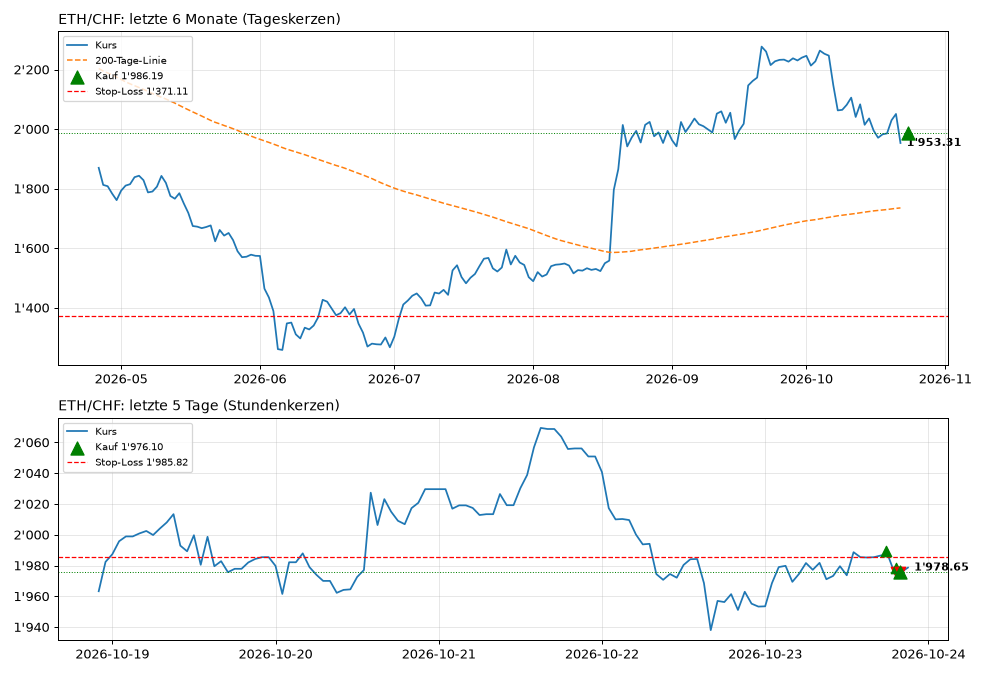
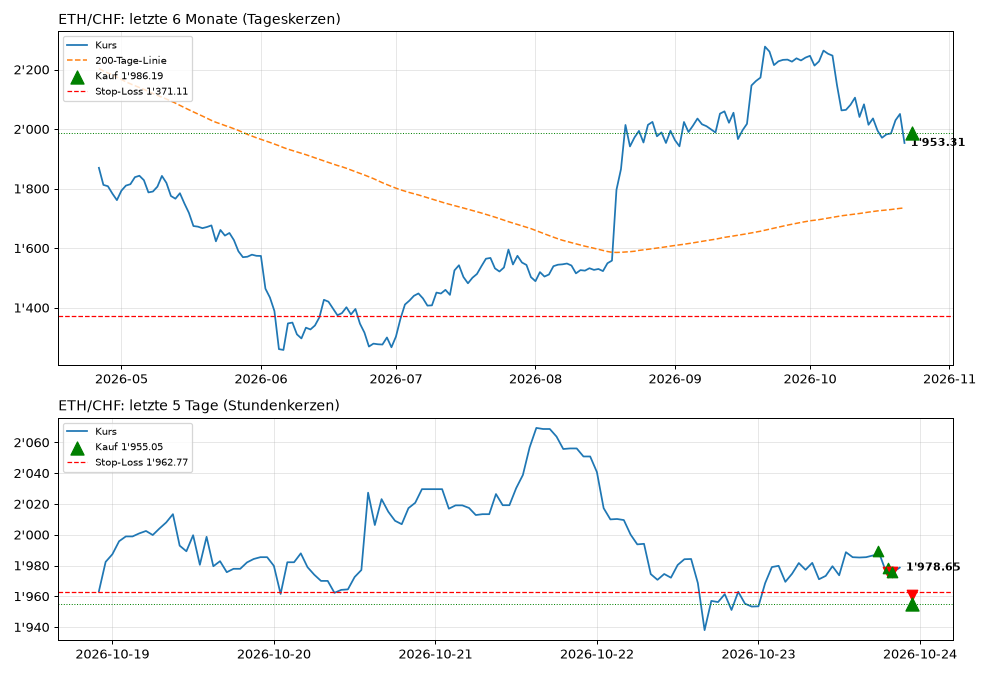
Bot-Lauf 2026-10-23 22:50

diff --git a/STATUS.md b/STATUS.md
@@ -1,6 +1,6 @@
 # 📈 Trading-Bot: Übersicht (Demo mit Spielgeld)
 
-Stand: **24.10.2026 00:20** Schweizer Zeit · wird jede Stunde automatisch aktualisiert
+Stand: **24.10.2026 00:50** Schweizer Zeit · wird jede Stunde automatisch aktualisiert
 
 ## Auf einen Blick
 
@@ -12,14 +12,14 @@ Stand: **24.10.2026 00:20** Schweizer Zeit · wird jede Stunde automatisch aktua
 | | **1⃣ Langfrist-Bot (Hauptbot)** | **2⃣ KI-Bot (lernend, Daytrading)** | **3⃣ Risiko-Bot (aggressiv, Hebel 3×)** |
 |---|---|---|---|
 | Startkapital | 1'000.00 CHF | 1'000.00 CHF | 1'000.00 CHF |
-| **Kapital jetzt** | **996.05 CHF** | **989.57 CHF** | **945.11 CHF** |
-| Gewinn / Verlust | 🔴 -3.95 CHF (-0.40 %) | 🔴 -10.43 CHF (-1.04 %) | 🔴 -54.89 CHF (-5.49 %) |
-| Im Einsatz (investiert) | 411.09 CHF (41 %) | 746.55 CHF (75 %) | 4'002.16 CHF (423 %) |
-| Cash (nicht investiert) | 584.96 CHF | 243.02 CHF | 4'045.77 CHF |
-| Offene Positionen | 5 | 3 | 6 |
-| Abgeschlossene Trades | 0 | 1 | 5 |
+| **Kapital jetzt** | **992.21 CHF** | **972.11 CHF** | **974.58 CHF** |
+| Gewinn / Verlust | 🔴 -7.79 CHF (-0.78 %) | 🔴 -27.89 CHF (-2.79 %) | 🔴 -25.42 CHF (-2.54 %) |
+| Im Einsatz (investiert) | 407.25 CHF (41 %) | 494.83 CHF (51 %) | 2'902.81 CHF (298 %) |
+| Cash (nicht investiert) | 584.96 CHF | 477.29 CHF | 2'978.01 CHF |
+| Offene Positionen | 5 | 2 | 6 |
+| Abgeschlossene Trades | 0 | 2 | 6 |
 | Strategie | regime, 1d-Kerzen | adaptive_memory, 1h-Kerzen | breakout, 30m-Kerzen |
-| Hebel | ohne | ohne | 3× (Zinsen bisher 0.58 CHF) |
+| Hebel | ohne | ohne | 3× (Zinsen bisher 0.64 CHF) |
 
 ## 4⃣ Chef-Bot (verteilt auf die drei Stile)
 
@@ -28,29 +28,29 @@ Er handelt nicht selbst, sondern legt sein eigenes Kapital anteilig in die Stile
 | | |
 |---|---|
 | Startkapital | 1'000.00 CHF |
-| **Kapital jetzt** | **994.73 CHF** |
-| Gewinn / Verlust | 🔴 -5.27 CHF (-0.53 %) |
-| **Aktuelle Verteilung** | Langfrist 49 % · KI 23 % · Risiko 1 % · Cash 27 % |
+| **Kapital jetzt** | **988.52 CHF** |
+| Gewinn / Verlust | 🔴 -11.48 CHF (-1.15 %) |
+| **Aktuelle Verteilung** | Langfrist 45 % · KI 13 % · Risiko 10 % · Cash 32 % |
 | Marktphase (BTC, Tageskerzen) | Aufwärtstrend, wild |
-| Letzte Begründung | Marktphase «Aufwärtstrend, wild», Einschätzung: Langfrist -0.1 %, KI -0.8 %, Risiko -6.6 %, 🚨 Notbremse Risiko (-3.1 % in 3 Std.) |
-| Umschicht-Gebühren bisher | 0.37 CHF |
-| Erfahrung im Gedächtnis | 8 Läufe |
+| Letzte Begründung | Marktphase «Aufwärtstrend, wild», Einschätzung: Langfrist -1.0 %, KI -4.9 %, Risiko -0.2 % |
+| Umschicht-Gebühren bisher | 0.97 CHF |
+| Erfahrung im Gedächtnis | 9 Läufe |
 
-**Was das Gedächtnis in dieser Phase weiss:** Langfrist -0.011 %/Lauf, KI -0.079 %/Lauf, Risiko -0.397 %/Lauf
+**Was das Gedächtnis in dieser Phase weiss:** Risiko -0.006 %/Lauf, Langfrist -0.053 %/Lauf, KI -0.266 %/Lauf
 
 
 ## Kurse
 
 | Coin | Kurs jetzt | 24 Std. | Live-Chart |
 |---|---|---|---|
-| **BTC** | 67'126.40 CHF | 🟢 +0.73 % | [öffnen](https://www.tradingview.com/chart/?symbol=KRAKEN:BTCCHF) |
-| **ETH** | 1'979.42 CHF | 🟢 +1.39 % | [öffnen](https://www.tradingview.com/chart/?symbol=KRAKEN:ETHCHF) |
-| **BNB** | 611.79 CHF | 🟢 +1.42 % | [öffnen](https://www.tradingview.com/chart/?symbol=KRAKEN:BNBUSD) |
-| **XRP** | 1.08 CHF | 🔴 -0.04 % | [öffnen](https://www.tradingview.com/chart/?symbol=KRAKEN:XRPUSD) |
-| **SOL** | 85.67 CHF | 🟢 +0.18 % | [öffnen](https://www.tradingview.com/chart/?symbol=KRAKEN:SOLUSD) |
-| **TRX** | 0.27 CHF | 🟢 +0.57 % | [öffnen](https://www.tradingview.com/chart/?symbol=KRAKEN:TRXUSD) |
-| **ZEC** | 1'013.54 CHF | 🟢 +0.66 % | [öffnen](https://www.tradingview.com/chart/?symbol=KRAKEN:ZECUSD) |
-| **HYPE** | 64.19 CHF | 🟢 +0.49 % | [öffnen](https://www.tradingview.com/chart/?symbol=KRAKEN:HYPEUSD) |
+| **BTC** | 66'749.80 CHF | 🟢 +0.17 % | [öffnen](https://www.tradingview.com/chart/?symbol=KRAKEN:BTCCHF) |
+| **ETH** | 1'956.03 CHF | 🟢 +0.19 % | [öffnen](https://www.tradingview.com/chart/?symbol=KRAKEN:ETHCHF) |
+| **BNB** | 607.92 CHF | 🟢 +0.78 % | [öffnen](https://www.tradingview.com/chart/?symbol=KRAKEN:BNBUSD) |
+| **XRP** | 1.07 CHF | 🔴 -1.13 % | [öffnen](https://www.tradingview.com/chart/?symbol=KRAKEN:XRPUSD) |
+| **SOL** | 84.42 CHF | 🔴 -1.28 % | [öffnen](https://www.tradingview.com/chart/?symbol=KRAKEN:SOLUSD) |
+| **TRX** | 0.27 CHF | 🟢 +0.34 % | [öffnen](https://www.tradingview.com/chart/?symbol=KRAKEN:TRXUSD) |
+| **ZEC** | 965.17 CHF | 🔴 -4.14 % | [öffnen](https://www.tradingview.com/chart/?symbol=KRAKEN:ZECUSD) |
+| **HYPE** | 63.30 CHF | 🔴 -0.91 % | [öffnen](https://www.tradingview.com/chart/?symbol=KRAKEN:HYPEUSD) |
 
 ## 1⃣ Langfrist-Bot (Hauptbot)
 
@@ -60,11 +60,11 @@ _Hält Coins über Wochen bis Monate, solange der Kurs über der 200-Tage-Linie 
 
 | Coin | Gekauft am | Einstiegskurs | Kurs jetzt | Menge | Einsatz | Wert jetzt | Gewinn / Verlust | Stop-Loss |
 |---|---|---|---|---|---|---|---|---|
-| **BTC** long | 23.10.2026 18:09 | 67'388.78 | 67'126.40 | 0.001485 | 100.05 CHF | 99.66 CHF | 🔴 -0.39 CHF (-0.39 %) | 53'251.84 (-21 %) |
-| **ETH** long | 23.10.2026 18:09 | 1'986.19 | 1'979.42 | 0.040710 | 80.86 CHF | 80.58 CHF | 🔴 -0.28 CHF (-0.34 %) | 1'371.11 (-31 %) |
-| **BNB** long | 23.10.2026 19:15 | 617.14 | 611.79 | 0.162070 | 100.02 CHF | 99.15 CHF | 🔴 -0.87 CHF (-0.87 %) | 483.48 (-21 %) |
-| **XRP** long | 23.10.2026 19:15 | 1.08 | 1.08 | 58.690975 | 63.53 CHF | 63.35 CHF | 🔴 -0.18 CHF (-0.28 %) | 0.66 (-39 %) |
-| **SOL** long | 23.10.2026 19:15 | 86.38 | 85.67 | 0.797780 | 68.91 CHF | 68.35 CHF | 🔴 -0.56 CHF (-0.81 %) | 55.00 (-36 %) |
+| **BTC** long | 23.10.2026 18:09 | 67'388.78 | 66'749.80 | 0.001485 | 100.05 CHF | 99.10 CHF | 🔴 -0.95 CHF (-0.95 %) | 53'251.84 (-20 %) |
+| **ETH** long | 23.10.2026 18:09 | 1'986.19 | 1'956.03 | 0.040710 | 80.86 CHF | 79.63 CHF | 🔴 -1.23 CHF (-1.52 %) | 1'371.11 (-30 %) |
+| **BNB** long | 23.10.2026 19:15 | 617.14 | 607.92 | 0.162070 | 100.02 CHF | 98.53 CHF | 🔴 -1.49 CHF (-1.49 %) | 483.48 (-20 %) |
+| **XRP** long | 23.10.2026 19:15 | 1.08 | 1.07 | 58.690975 | 63.53 CHF | 62.65 CHF | 🔴 -0.88 CHF (-1.38 %) | 0.66 (-39 %) |
+| **SOL** long | 23.10.2026 19:15 | 86.38 | 84.42 | 0.797780 | 68.91 CHF | 67.34 CHF | 🔴 -1.56 CHF (-2.27 %) | 55.00 (-35 %) |
 
 **Signale jetzt**
 
@@ -89,9 +89,8 @@ _Lernende KI mit Gedächtnis: merkt sich für jede Marktphase, welche Strategie 
 
 | Coin | Gekauft am | Einstiegskurs | Kurs jetzt | Menge | Einsatz | Wert jetzt | Gewinn / Verlust | Stop-Loss |
 |---|---|---|---|---|---|---|---|---|
-| **ZEC** long | 23.10.2026 18:10 | 1'020.51 | 1'013.54 | 0.245099 | 250.12 CHF | 248.42 CHF | 🔴 -1.71 CHF (-0.68 %) | 982.27 (-3 %) |
-| **TRX** long | 23.10.2026 20:16 | 0.27 | 0.27 | 918.327343 | 250.05 CHF | 250.38 CHF | 🟢 +0.32 CHF (+0.13 %) | 0.27 (-1 %) |
-| **XRP** long | 23.10.2026 23:16 | 1.08 | 1.08 | 229.549349 | 248.00 CHF | 247.76 CHF | 🔴 -0.24 CHF (-0.10 %) | 1.06 (-1 %) |
+| **TRX** long | 23.10.2026 20:16 | 0.27 | 0.27 | 918.327343 | 250.05 CHF | 249.79 CHF | 🔴 -0.27 CHF (-0.11 %) | 0.27 (-0 %) |
+| **XRP** long | 23.10.2026 23:16 | 1.08 | 1.07 | 229.549349 | 248.00 CHF | 245.04 CHF | 🔴 -2.96 CHF (-1.19 %) | 1.06 (-0 %) |
 
 **Signale jetzt**
 
@@ -127,6 +126,7 @@ _Lernende KI mit Gedächtnis: merkt sich für jede Marktphase, welche Strategie 
 
 | Coin | Gekauft | Verkauft | Einstieg | Ausstieg | Ergebnis | Grund |
 |---|---|---|---|---|---|---|
+| ZEC long | 23.10.2026 18:10 | 24.10.2026 00:49 | 1'020.51 | 960.79 | 🔴 -15.86 CHF | Stop-Loss (Gap) |
 | BNB long | 23.10.2026 18:10 | 23.10.2026 21:16 | 617.52 | 611.79 | 🔴 -3.61 CHF | Signal |
 
 ## 3⃣ Risiko-Bot (aggressiv, Hebel 3×)
@@ -137,12 +137,12 @@ _Sehr risikofreudig: viele Trades alle 30 Minuten, setzt auch auf fallende Kurse
 
 | Coin | Gekauft am | Einstiegskurs | Kurs jetzt | Menge | Einsatz | Wert jetzt | Gewinn / Verlust | Stop-Loss |
 |---|---|---|---|---|---|---|---|---|
-| **BTC** short | 23.10.2026 19:46 | 67'307.53 | 67'126.40 | 0.007573 | 509.75 CHF | 508.37 CHF | 🟢 +1.37 CHF (+0.27 %) | 67'668.15 (+1 %) |
-| **XRP** short | 23.10.2026 19:46 | 1.08 | 1.08 | 471.664724 | 509.75 CHF | 509.08 CHF | 🟢 +0.66 CHF (+0.13 %) | 1.09 (+1 %) |
-| **TRX** long | 23.10.2026 19:46 | 0.27 | 0.27 | 1653.266901 | 449.97 CHF | 450.75 CHF | 🟢 +0.78 CHF (+0.17 %) | 0.27 (-0 %) |
-| **BNB** short | 23.10.2026 21:16 | 612.08 | 611.79 | 0.690998 | 422.95 CHF | 422.75 CHF | 🟢 +0.20 CHF (+0.05 %) | 615.33 (+1 %) |
-| **SOL** short | 23.10.2026 21:16 | 85.65 | 85.67 | 8.655636 | 741.33 CHF | 741.56 CHF | 🔴 -0.23 CHF (-0.03 %) | 86.35 (+1 %) |
-| **ETH** short | 23.10.2026 21:46 | 1'976.10 | 1'979.42 | 0.691944 | 1'367.35 CHF | 1'369.65 CHF | 🔴 -2.30 CHF (-0.17 %) | 1'985.82 (+0 %) |
+| **BTC** short | 23.10.2026 19:46 | 67'307.53 | 66'749.80 | 0.007573 | 509.75 CHF | 505.52 CHF | 🟢 +4.22 CHF (+0.83 %) | 67'668.15 (+1 %) |
+| **XRP** short | 23.10.2026 19:46 | 1.08 | 1.07 | 471.664724 | 509.75 CHF | 503.50 CHF | 🟢 +6.25 CHF (+1.23 %) | 1.09 (+2 %) |
+| **TRX** long | 23.10.2026 19:46 | 0.27 | 0.27 | 1653.266901 | 449.97 CHF | 449.69 CHF | 🔴 -0.28 CHF (-0.06 %) | 0.27 (-0 %) |
+| **BNB** short | 23.10.2026 21:16 | 612.08 | 607.92 | 0.690998 | 422.95 CHF | 420.07 CHF | 🟢 +2.87 CHF (+0.68 %) | 615.33 (+1 %) |
+| **SOL** short | 23.10.2026 21:16 | 85.65 | 84.42 | 8.655636 | 741.33 CHF | 730.67 CHF | 🟢 +10.67 CHF (+1.44 %) | 86.35 (+2 %) |
+| **ETH** short | 24.10.2026 00:49 | 1'955.05 | 1'956.03 | 0.149978 | 293.21 CHF | 293.36 CHF | 🔴 -0.15 CHF (-0.05 %) | 1'962.77 (+0 %) |
 
 **Signale jetzt**
 
@@ -157,12 +157,13 @@ _Sehr risikofreudig: viele Trades alle 30 Minuten, setzt auch auf fallende Kurse
 | ZEC | 🔴 raus / Cash |
 | HYPE | 🔴 raus / Cash |
 
-**Letzte Entscheidung:** BTC/CHF: Position offen, Signal bestätigt · ETH/CHF: Position offen, Signal bestätigt · BNB/CHF: Position offen, Signal bestätigt · XRP/CHF: Position offen, Signal bestätigt · SOL/CHF: Position offen, Signal bestätigt · TRX/CHF: Position offen, Signal bestätigt · ZEC/CHF: kein Einstieg (max. offene Positionen) · HYPE/CHF: kein Einstieg (max. offene Positionen)
+**Letzte Entscheidung:** BTC/CHF: Position offen, Signal bestätigt · ETH/CHF: short eröffnet 0.149978 @ 1955.05 · BNB/CHF: Position offen, Signal bestätigt · XRP/CHF: Position offen, Signal bestätigt · SOL/CHF: Position offen, Signal bestätigt · TRX/CHF: Position offen, Signal bestätigt · ZEC/CHF: kein Einstieg (max. offene Positionen) · HYPE/CHF: kein Einstieg (max. offene Positionen)
 
 **Letzte abgeschlossene Trades**
 
 | Coin | Gekauft | Verkauft | Einstieg | Ausstieg | Ergebnis | Grund |
 |---|---|---|---|---|---|---|
+| ETH short | 23.10.2026 21:46 | 24.10.2026 00:49 | 1'976.10 | 1'960.60 | 🟢 +7.20 CHF | Take-Profit |
 | ETH long | 23.10.2026 21:16 | 23.10.2026 21:46 | 1'978.08 | 1'976.10 | 🔴 -1.77 CHF | Signal |
 | SOL long | 23.10.2026 19:46 | 23.10.2026 21:16 | 86.26 | 85.65 | 🔴 -6.25 CHF | Signal |
 | ZEC long | 23.10.2026 20:17 | 23.10.2026 21:16 | 1'035.29 | 1'013.39 | 🔴 -12.19 CHF | Stop-Loss (Gap) |

diff --git a/lernen/tagebuch/2026-10-24.md b/lernen/tagebuch/2026-10-24.md
@@ -1,0 +1,34 @@
+# Lern-Tagebuch 24.10.2026
+
+Alle Zeiten in Schweizer Zeit.
+
+### 00:49 · 2⃣ KI-Bot (lernend, Daytrading) · 🔴 **Verkauf** ZEC/CHF
+
+- **Ergebnis:** ❌ -15.86 CHF (-6.34 %), nach Gebühren
+- **Einstieg → Ausstieg:** 1'020.51 → 960.79 CHF, gehalten 7 Stunden
+- **Grund:** Stop-Loss (Gap)
+- **Was man daraus lernt:** Der Kurs ist über den Stop hinweg gesprungen (Gap). Stops schützen gut, aber nicht immer exakt auf den Rappen.
+
+### 00:49 · 3⃣ Risiko-Bot (aggressiv, Hebel 3×) · 🔴 **Verkauf** ETH/CHF
+
+- **Ergebnis:** ✅ +7.20 CHF (+0.53 %), nach Gebühren
+- **Einstieg → Ausstieg:** 1'976.10 → 1'960.60 CHF, gehalten 3 Stunden
+- **Grund:** Take-Profit
+- **Was man daraus lernt:** Das Gewinnziel wurde erreicht: Der Plan mit festem Chance-Risiko-Verhältnis ist aufgegangen.
+
+### 00:49 · 3⃣ Risiko-Bot (aggressiv, Hebel 3×) · 🟣 **Short** (Wette auf fallende Kurse) ETH/CHF
+
+- **Kurs:** 1'955.05 CHF, Menge 0.149978, Einsatz 293.21 CHF
+- **Warum:** Der Kurs hat ein neues kurzfristiges Tief gemacht (Ausbruch nach unten).
+- **Stop-Loss:** 1'962.77 CHF (+0.4 %), möglicher Verlust ca. 1.16 CHF
+- **Marktlage:** Dieser Bot beachtet keine Nachrichten.
+- **Hebel:** 3×: jede Kursbewegung wirkt 3-fach auf das Konto, dazu kommen Zinsen auf das geliehene Geld.
+
+### 00:50 · 4⃣ Chef-Bot · 🔄 **Umschichtung**
+
+- **Vorher:** Langfrist 49 % · KI 23 % · Risiko 1 % · Cash 27 %
+- **Nachher:** Langfrist 45 % · KI 13 % · Risiko 10 % · Cash 32 %
+- **Warum:** Marktphase «Aufwärtstrend, wild», Einschätzung: Langfrist -1.0 %, KI -4.9 %, Risiko -0.2 %
+- **Kosten:** 0.60 CHF Gebühren
+- **Was man daraus lernt:** Kein Stil gewinnt immer. Wer das Geld dorthin verschiebt, wo es gerade läuft, muss die Umschicht-Kosten und das Risiko von Fehlsignalen mitbezahlen.
+
